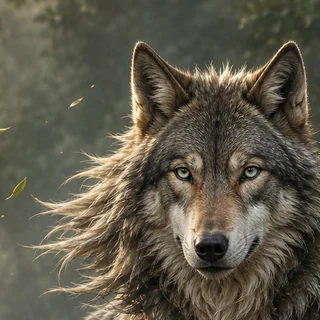
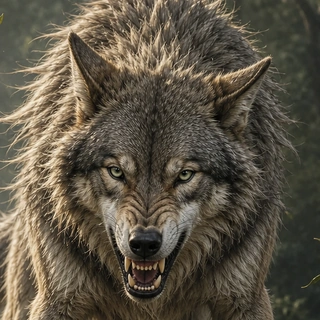
Make Windsong Wolf more ferocious

diff --git a/src/components/PortraitDevtool.tsx b/src/components/PortraitDevtool.tsx
@@ -36,10 +36,11 @@ interface ImageChoice {
 
 const PORTRAIT_DRAFT_STORAGE_KEY = "emberfall.portrait-devtool.v1";
 const PLAYER_DEFAULT_CROP: PortraitCrop = { centerX: 50, centerY: 11.161, diameter: 41.667 };
+const LEGACY_WINDSONG_WOLF_CROP: PortraitCrop = { centerX: 50.781, centerY: 22.786, diameter: 50.781 };
 const ENEMY_DEFAULT_CROPS: Record<string, PortraitCrop> = {
   dummy: { centerX: 50, centerY: 18.359, diameter: 41.406 },
   "enemy-mrxiut2a-k4kgv": { centerX: 47.852, centerY: 50.13, diameter: 58.594 },
-  "enemy-mrxj4o6o-o45ia": { centerX: 50.781, centerY: 22.786, diameter: 50.781 },
+  "enemy-mrxj4o6o-o45ia": { centerX: 58.594, centerY: 42.318, diameter: 58.594 },
   "enemy-mrxk609z-n04fq": { centerX: 49.805, centerY: 30.599, diameter: 50.781 },
   "enemy-mrxkar5z-g9o5d": { centerX: 46.875, centerY: 38.411, diameter: 60.547 },
   "enemy-mrxkjqs3-g7g5i": { centerX: 49.805, centerY: 17.578, diameter: 45.898 },
@@ -87,6 +88,12 @@ function finiteNumber(value: unknown, fallback: number) {
   return typeof value === "number" && Number.isFinite(value) ? value : fallback;
 }
 
+function cropMatches(value: PortraitCrop, expected: PortraitCrop) {
+  return Math.abs(value.centerX - expected.centerX) < 0.01
+    && Math.abs(value.centerY - expected.centerY) < 0.01
+    && Math.abs(value.diameter - expected.diameter) < 0.01;
+}
+
 function normalizeCrop(crop: PortraitCrop, naturalWidth = 1, naturalHeight = 1): PortraitCrop {
   const diameter = clamp(finiteNumber(crop.diameter, 48), 20, 90);
   const radiusX = diameter / 2;
@@ -115,15 +122,21 @@ function normalizeExchange(value: unknown): PortraitExchange {
       const choices = IMAGE_CHOICES[fallback.kind];
       const image = choices.find((choice) => choice.id === saved.imageId) ?? choices.find((choice) => choice.imageUrl === saved.imageUrl);
       if (!image) return fallback;
+      const savedCrop = {
+        centerX: finiteNumber(saved.centerX, image.crop.centerX),
+        centerY: finiteNumber(saved.centerY, image.crop.centerY),
+        diameter: finiteNumber(saved.diameter, image.crop.diameter),
+      };
+      const crop = fallback.id === "enemy-mrxj4o6o-o45ia"
+        && image.id === "enemy:enemy-mrxj4o6o-o45ia"
+        && cropMatches(savedCrop, LEGACY_WINDSONG_WOLF_CROP)
+        ? image.crop
+        : savedCrop;
       return {
         ...fallback,
         imageId: image.id,
         imageUrl: image.imageUrl,
-        ...normalizeCrop({
-          centerX: finiteNumber(saved.centerX, image.crop.centerX),
-          centerY: finiteNumber(saved.centerY, image.crop.centerY),
-          diameter: finiteNumber(saved.diameter, image.crop.diameter),
-        }, image.naturalWidth, image.naturalHeight),
+        ...normalizeCrop(crop, image.naturalWidth, image.naturalHeight),
       };
     }),
   };